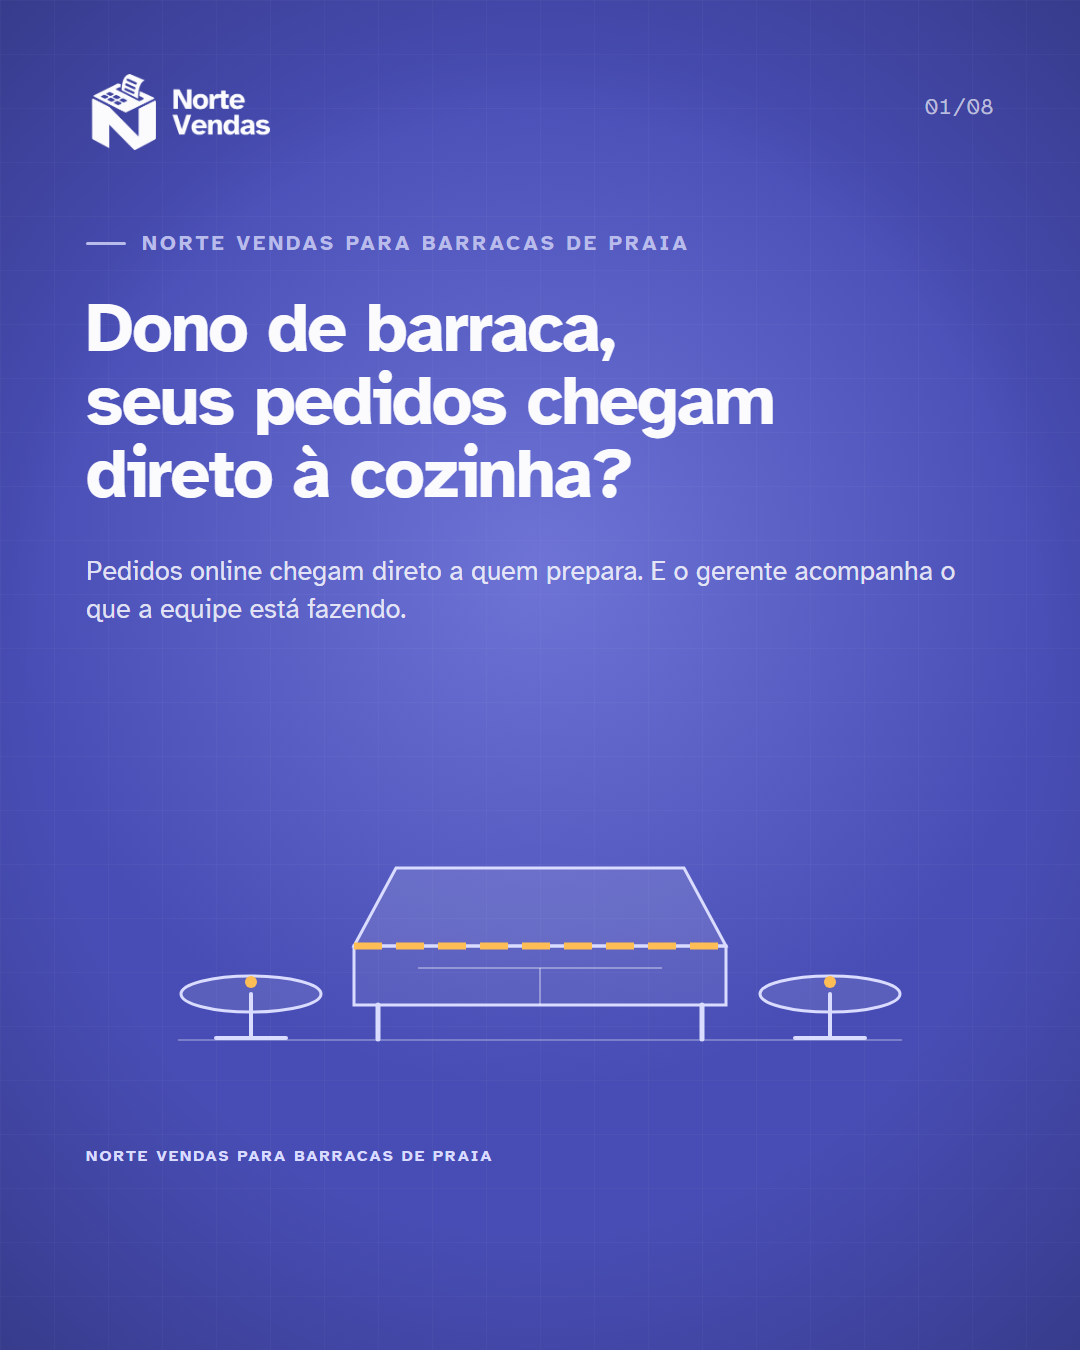
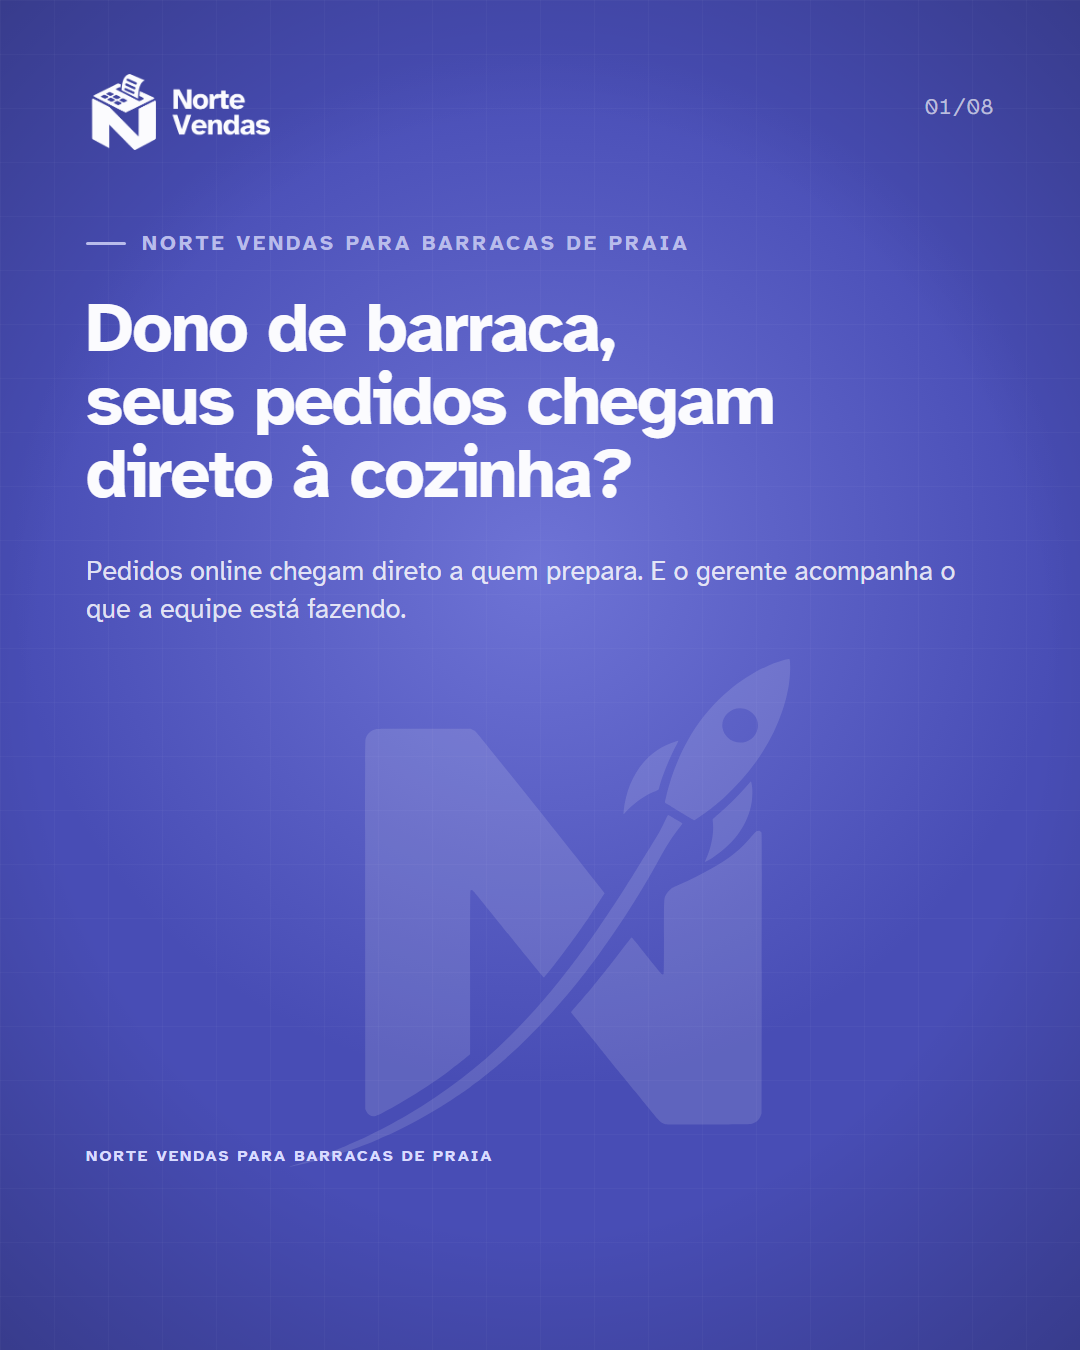
Replace beach stand cover with Norte rocket mark

diff --git a/src/templates/NorteVendasBarracaPraia.tsx b/src/templates/NorteVendasBarracaPraia.tsx
@@ -22,27 +22,10 @@ import {
 
 const TOTAL = 8;
 const SALES_LOGO = kit('01-logos/norte-vendas/horizontal/norte-vendas_horizontal_branco_transparente.png');
+const COVER_MARK = kit('01-logos/norte-para-negocios/simbolo/norte-para-negocios_simbolo_branco_transparente.svg');
 const SCREEN_TABLES = kit('08-recursos/telas-oficiais/vendas/d-mesas.png');
 const SCREEN_DASHBOARD = kit('08-recursos/telas-oficiais/vendas/d-dashboard.png');
 const FLOOR_PHOTO = kit('08-recursos/fotos-reais/norte-vendas-barraca-operacao.png');
-
-const BeachStandIllustration: React.FC = () => (
-  <svg width="908" height="300" viewBox="0 0 908 300" fill="none" xmlns="http://www.w3.org/2000/svg" aria-label="Ilustração de barraca de praia com mesas">
-    <path d="M92 260H816" stroke="rgba(251,251,254,.28)" strokeWidth="2" />
-    <path d="M310 88H598L640 166H268L310 88Z" fill="rgba(251,251,254,.12)" stroke="#D9DBFF" strokeWidth="3" />
-    <path d="M268 166H640V225H268V166Z" fill="rgba(251,251,254,.08)" stroke="#D9DBFF" strokeWidth="3" />
-    <path d="M268 166H640" stroke="#FFBE55" strokeWidth="7" strokeDasharray="28 14" />
-    <path d="M292 225V259M616 225V259" stroke="#D9DBFF" strokeWidth="5" strokeLinecap="round" />
-    <path d="M332 188H576" stroke="rgba(251,251,254,.35)" strokeWidth="2" />
-    <path d="M454 188V225" stroke="rgba(251,251,254,.35)" strokeWidth="2" />
-    <ellipse cx="165" cy="214" rx="70" ry="18" fill="rgba(251,251,254,.10)" stroke="#D9DBFF" strokeWidth="3" />
-    <path d="M165 214V258M130 258H200" stroke="#D9DBFF" strokeWidth="4" strokeLinecap="round" />
-    <ellipse cx="744" cy="214" rx="70" ry="18" fill="rgba(251,251,254,.10)" stroke="#D9DBFF" strokeWidth="3" />
-    <path d="M744 214V258M709 258H779" stroke="#D9DBFF" strokeWidth="4" strokeLinecap="round" />
-    <circle cx="165" cy="202" r="6" fill="#FFBE55" />
-    <circle cx="744" cy="202" r="6" fill="#FFBE55" />
-  </svg>
-);
 
 const PageTop: React.FC<{n: number; tone: 'light' | 'dark' | 'product'}> = ({n, tone}) => (
   <div style={{position: 'absolute', left: PAD, right: PAD, top: 66, height: 62, display: 'flex', alignItems: 'center', justifyContent: 'space-between'}}>
@@ -64,7 +47,7 @@ const CoverScene: React.FC = () => {
     <Support tone="product" top={552} width={890} size={27}>
       Pedidos online chegam direto a quem prepara. E o gerente acompanha o que a equipe está fazendo.
     </Support>
-    <div style={{position: 'absolute', left: PAD, top: 780}}><BeachStandIllustration /></div>
+    <Img src={COVER_MARK} style={{position: 'absolute', width: 650, height: 650, objectFit: 'contain', left: '50%', bottom: 112, transform: 'translateX(-50%)', opacity: 0.13}} />
     <div style={{position: 'absolute', left: PAD, bottom: 184, color: '#D9DBFF', fontFamily: SANS, fontSize: 16, fontWeight: 700, letterSpacing: 2, textTransform: 'uppercase'}}>Norte Vendas para barracas de praia</div>
   </AbsoluteFill></Produto>;
 };

diff --git a/conteudo ntb/02-carrosseis/Norte Vendas - Barraca de Praia/LEIA-ME.md b/conteudo ntb/02-carrosseis/Norte Vendas - Barraca de Praia/LEIA-ME.md
@@ -4,7 +4,7 @@ Carrossel de oito slides para donos de barracas. A narrativa parte do gancho apr
 
 ## Ordem dos slides
 
-1. Capa estática, no padrão gráfico da marca, com ilustração vetorial da barraca e das mesas.
+1. Capa estática, no padrão gráfico da marca, com o símbolo oficial N com foguete como marca d’água discreta no fundo.
 2. Atendimento por toda a barraca, com animação de pedidos das mesas reunidos em uma comanda.
 3. Tela oficial de Mesas & Comandas, com foco animado.
 4. Animação do pedido registrado seguindo online até a cozinha.
